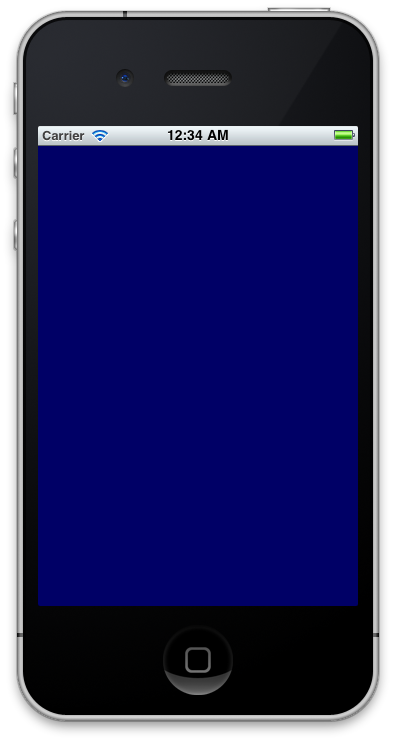
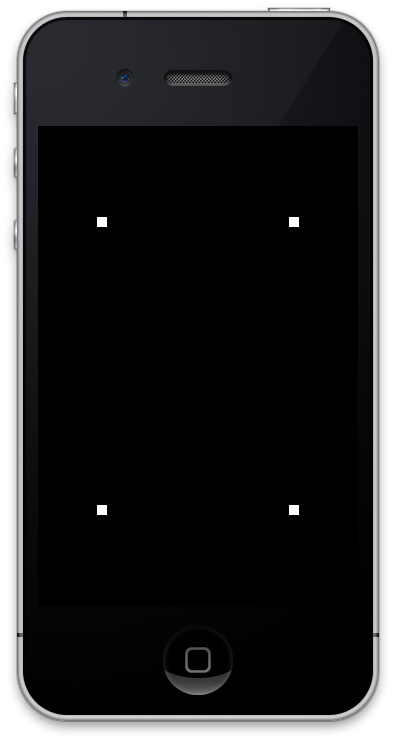
GitBook: [master] 4 pages and 6 assets modified

diff --git a/opengl/opengl-es-tutorial-for-ios/chapter-05.md b/opengl/opengl-es-tutorial-for-ios/chapter-05.md
@@ -1,0 +1,140 @@
+# 5장. 투영에 대해서 1/2
+
+3차원 표현의 핵심은 무엇일까요? 바로 미술시간에 배운 소실점입니다. 그림 속에 소실점이 한 개가 있다면 원근감이 느껴집니다. OpenGL\|ES에서는 3차원 그림을 원근감이 있게 또는 없게 표현할 수 있습니다. 바로 소실점이 있거나 없는 것이지요. 원근감이 있게 표현하는 것은 Perspective\(원근\) 투영이라 하고 원근감이 없게 표현하는 것을 Orthographic\(직교\) 투영이라고 합니다.
+
+원근감은 가까이 있는 물체 보다 멀리 있는 물체가 더 작게 보이는 효과를 뜻합니다. 따라서 사실적인 3차원 표현을 하려면 원근감이 있게 표현을 해야 합니다. 사실 이 원근감의 유무에 따라 2D게임과 3D게임이 나뉘기도 하며 2D게임을 제작할 때에는 대부분 원근감이 없도록 표현을 합니다. 즉, x, y 좌표만으로 물체의 위치를 정하며 원근감이 있는 3D게임에서는 x,y,z 좌표로 물체의 위치를 정합니다.
+
+> \[참고\] OpenGL\|ES 를 이해하기 위해서는 렌더링 파이프라인과 관련 수학을 이해하고 있으면 좋습니다. 튜토리얼에서 다루기에는 내용이 조금 방대한 면이 있으므로 이 튜토리얼에서는 다루지 않겠습니다. 관련 내용은 [게임&인터랙티브 애플리케이션을 위한 수학](http://www.yes24.com/24/Goods/2807319?Acode=101) 이란 좋은 책이 있으므로 참고하시길 바랍니다. :\)
+
+이 번 튜토리얼에서는 원근감이 없는 상태에서 점을 출력하는 예제를 만들어 보겠습니다. 다음은 이번 튜토리얼에서 다룰 내용입니다.
+
+* glMatrixMode\(\)
+* GL\_PROJECTION
+* GL\_MODELVIEW
+* glLoadIdentity\(\)
+* GL\_POINTS
+* glVertexPointer\(\)
+* glEnableClientState\(\)
+* glPointSize\(\)
+* glDrawArrays\(\)
+* glDisableClientState\(\)
+
+아래의 화면은 만들어 볼 프로그램의 실행 결과 화면과 예제 코드입니다. 먼저 실행해 보실 분은 [소스코드](https://skyfe79.gitbooks.io/ios-opengles-tutorial/content/ch4/Tutorial04.zip)를 받아 컴파일해 보시길 바랍니다.
+
+![](../../.gitbook/assets/tut01.png)
+
+#### 1. OGLView 수정하기 <a id="1-oglview-%EC%88%98%EC%A0%95%ED%95%98%EA%B8%B0"></a>
+
+iOS 에서 OpenGL은 CAEAGLLayer에 그려집니다. 지난 튜토리얼까지는 그림을 그리지 않고 배경 화면만 색상을 바꿔 보았습니다. CAEAGLLayer에 정점을 정의해 그림을 그리려면 추가적인 설정이 필요합니다. 바로 CAEAGLLayer의 드로잉 속성입니다. 이 속성으로 정해 주는 내용은 간단합니다.
+
+* kEAGLDrawablePropertyColorFormat 레이어의 색상 형식을 설정합니다. 기본값으로 RGBA를 모두 표현할 수 있는 kEAGLColorFormatRGBA8 를 사용합니다.
+* kEAGLDrawablePropertyRetainedBacking 레이어를 다 그리고 난 후 해당 내용을 메모리에 유지하고 있을 것인지 설정합니다. 메모리 사용과 성능 상의 이유로 꼭 필요할 경우가 아니면 NO로 설정하는 것이 좋습니다.
+
+이제 관련 내용을 추가해 봅시다. OGLView.m 파일의 setupLayer메소드를 아래와 같이 수정합니다.
+
+```objectivec
+-(void)setupLayer
+{
+    eaglLayer = (CAEAGLLayer *)self.layer;
+    [eaglLayer setOpaque:YES];
+    //: 추가합니다. 
+    [eaglLayer setDrawableProperties:[NSDictionary dictionaryWithObjectsAndKeys:
+                                      [NSNumber numberWithBool:FALSE], kEAGLDrawablePropertyRetainedBacking,
+                                      kEAGLColorFormatRGBA8, kEAGLDrawablePropertyColorFormat,
+                                      nil]];
+}
+```
+
+#### 2. DrawPointView 만들기 <a id="2-drawpointview-%EB%A7%8C%EB%93%A4%EA%B8%B0"></a>
+
+OGLView를 상속받는 DrawPointView 클래스를 새로 만들어 줍니다. DrawPointView 클래스에서 직교 투영을 설정하고 점을 그리려 합니다.
+
+우선 setupView 메서드를 재정의하여 투영을 직교 투영으로 설정하고 그림이 그려질 영역인 뷰포트 크기를 정의하겠습니다.
+
+```objectivec
+-(void)setupView
+{
+    //: 행렬 모드는 투영 행렬로 변경한다
+    glMatrixMode(GL_PROJECTION);
+
+    //: 투영행렬을 초기화 한다
+    glLoadIdentity();
+
+    //: 직교투영으로 설정한다
+    glOrthof(0.0f, 1.0f, 0.0f, 1.0f, -1.0f, 1.0f);
+
+    //: 뷰포트의 크기를 전체 화면으로 설정한다.
+    glViewport(0, 0, self.bounds.size.width, self.bounds.size.height);
+}
+```
+
+위의 함수 중에서 중요한 함수는 glOrthof 함수입니다. 직교투영 행렬을 정의하는 함수이기 때문입니다. 투영행렬을 만드는 것은 절두체를 설정하는 것입니다. 절두체는 \(x, y, z\) 축마다 범위를 설정하고 투영을 설정하여 객체 컬링\(범위 벗어나는 그림을 잘라내는 것\) 등에 사용됩니다. 아래 그림은 직교투영과 원근투영 절두체의 모양입니다.
+
+![&#xC9C1;&#xAD50;&#xD22C;&#xC601;&#xC808;&#xB450;&#xCCB4;](../../.gitbook/assets/ortho.gif)
+
+![&#xC6D0;&#xADFC;&#xD22C;&#xC601;&#xC808;&#xB450;&#xCCB4;](../../.gitbook/assets/perspective.png)
+
+각 절두체를 보면 \(left, right, top, bottom, near, far\) 항목이 있습니다. 이 것이 바로 \(x, y, z\)축의 범위값입니다
+
+x축의 범위값은 \(left, right\)이고 y축의 범위값은 \(bottom, top\) 이고 z축의 범위값은 \(near, far\)입니다. 따라서 위 코드에서 glOrthof 함수 인자는 glOrthof\(left, right, bottom, top, near, far\) 입니다.그리고 위처럼 직교투영절두체의 범위를 설정하면 아이폰 화면의 좌-하단이 원점이 되도록 설정한 것입니다.
+
+![](../../.gitbook/assets/tut02.png)
+
+#### 3. 정점 정의하기 <a id="3-%EC%A0%95%EC%A0%90-%EC%A0%95%EC%9D%98%ED%95%98%EA%B8%B0"></a>
+
+위의 결과물 화면을 보면 점이 4개가 화면에 그려지고 있습니다. 점은 벡터와 다르게 위치를 가지고 있습니다. 3차원에서 점의 위치는 \(x, y, z\) 성분으로 구성됩니다. OpenGL\|ES의 원점은 직교투영으로 설정한 절두체의 범위에 따라 달라집니다. 그래서 절두체의 범위를 변경하면 정점의 값이 일정해도 화면의 다른 위치에 출력됩니다. 우선은 결과처럼 점 4개를 출력해 보겠습니다. 원점을 화면 좌-하단이라 생각하고 정점의 위치를 설정합니다.
+
+```objectivec
+GLfloat points[] = {
+    0.2, 0.2, 0.0,  //: 좌-하단
+    0.8, 0.2, 0.0,  //: 우-하단
+    0.2, 0.8, 0.0,  //: 좌-상단
+    0.8, 0.8, 0.0   //: 우-상단
+};
+```
+
+#### 4. 정점 그리기 <a id="4-%EC%A0%95%EC%A0%90-%EA%B7%B8%EB%A6%AC%EA%B8%B0"></a>
+
+OpenGL\|ES에서 정점을 그리려면 정점을 정점 배열에 할당해 줘야 합니다. 정점배열과 OpenGL\|ES의 모델뷰행렬 등에 관해서는 다음 튜토리얼에서 자세히 다루겠습니다. 우선은 아래 코드처럼 작성해 봅시다.
+
+```objectivec
+-(void)renderView
+{
+    //: 배경을 검은색으로 지운다
+    glClearColor(0.0, 0.0, 0.0, 1.0);
+    glClear(GL_COLOR_BUFFER_BIT);
+
+    //: 행렬 모드는 모델뷰 행렬로 변경한다
+    glMatrixMode(GL_MODELVIEW);
+    //: 모델뷰 행렬을 초기화한다
+    glLoadIdentity();
+
+    //: 정점배열을 설정한다
+    glVertexPointer(3, GL_FLOAT, 0, points);
+    glEnableClientState(GL_VERTEX_ARRAY);
+    {
+        //: 점의 크기를 설정한다
+        glPointSize(10);
+        //: 점의 색상을 설정한다
+        glColor4f(1.0, 1.0, 1.0, 1.0);
+        //: 정점 배열의 내용을 점으로 그린다
+        glDrawArrays(GL_POINTS, 0, 4);
+    }
+    glDisableClientState(GL_VERTEX_ARRAY);
+}
+```
+
+#### 5. 실행하기 <a id="5-%EC%8B%A4%ED%96%89%ED%95%98%EA%B8%B0"></a>
+
+이제 코드를 컴파일하고 실행하면 위의 화면처럼 점 4개가 화면에 출력될 것입니다. 이제 glOrthof 함수의 내용을 아래처럼 변경하여 다시 컴파일하여 실행해 봅시다.
+
+```objectivec
+glOrthof(-1.0f, 1.0f, -1.0f, 1.0f, -1.0f, 1.0f);
+```
+
+이렇게 하면 원점이 화면의 정중앙이 되기 때문에 아래와 같이 출력됩니다.
+
+![](../../.gitbook/assets/tut03%20%281%29.png)
+
+정점의 좌표값을 수정해 보며 여러번 테스트 해 보세요. 그럼 여기서 4편 튜토리얼을 마치고 이번 튜토리얼에서 다루지 못한 내용은 다음 5편 튜토리얼에서 다뤄보겠습니다.
+

diff --git a/opengl/opengl-es-tutorial-for-ios/chapter-06.md b/opengl/opengl-es-tutorial-for-ios/chapter-06.md
@@ -1,0 +1,100 @@
+# 6장. 투영에 대해서 2/2
+
+앞 장의 코드 중에서 정점 배열을 설정하는 부분을 살펴 보겠습니다.
+
+```objectivec
+-(void)renderView  
+{  
+    …  
+
+    //: 정점배열을 설정한다  
+    glVertexPointer(3, GL_FLOAT, 0, points);  
+    glEnableClientState(GL_VERTEX_ARRAY);  
+    {  
+        //: 점의 크기를 설정한다  
+        glPointSize(10);  
+        //: 점의 색상을 설정한다  
+        glColor4f(1.0, 1.0, 1.0, 1.0);  
+        //: 정점 배열의 내용을 점으로 그린다  
+        glDrawArrays(GL_POINTS, 0, 4);  
+    }  
+    glDisableClientState(GL_VERTEX_ARRAY);  
+}
+```
+
+glVertextPointer 는 OpenGL\|ES의 내부 정점 배열에 사용할 여러 정점을 입력하는 함수입니다. 예전 OpenGL 은 폴리곤을 정의할 때 아래와 같은 glBegin\(\) ~ glEnd\(\) 쌍을 이용해 정의할 수 있었습니다. 아래는 삼각형을 정의하는 코드입니다.
+
+```objectivec
+glBegin(GL_TRIANGLES);  
+    glVertex3f(-1.0f, -0.5f, -4.0f);     
+    glVertex3f( 1.0f, -0.5f, -4.0f);     
+    glVertex3f( 0.0f,  0.5f, -4.0f);     
+glEnd();
+```
+
+위처럼 폴리곤 또는 오브젝트를 정의하면 상태머신으로 작동하는 OpenGL 의 내부 구현은 매우 복잡해 집니다. 모바일 장치에서 빠르고 효율 있게 동작해야 하는 OpenGL\|ES 특성상 구현을 복잡하게 하는 glBegin\(\) ~ glEnd\(\) 형식의 오브젝트 정의 방법을 과감하게 없애고 대신 정점 배열 및 정점 버퍼를 사용하는 방법으로 오브젝트를 정의하게 했습니다.
+
+glEnableClientState, glDisableClientState, glVertextPointer, glDrawArrays 함수에 대해 알아 보겠습니다.
+
+> **glEnableClientState, glDisableClientState**
+>
+> OpenGL 함수 이름을 보면 Client 가 포함된 것이 있습니다. 이는 OpenGL이 서버와 클라이언트 모델로 설계되고 구현되었기 때문입니다. 간략하게 설명하자면 서버에서 이미지를 생성하고 클라이언트에서는 생성된 이미지를 출력하는 방식입니다. 그와 관련해 함수명이 붙여진 것입니다. 더 자세한 내용은 OpenGL 도서 및 가이드를 참고하세요. 위의 두 함수는 클라이언트 측 기능을 사용가능 또는 사용하지 않음으로 설정하는 함수입니다. OpenGL\|ES 는 기본으로 클라이언트 측 기능을 모두 꺼 놓기 때문에 필요한 기능은 glEnableClientState 로 켜 놓고 사용해야 합니다. 어떤 기능이 필요할 때 Enable로 켜고 기능을 사용한 다음에 Disable로 끄고 하는 패턴으로 사용합니다. 이 두 함수로 설정할 수 있는 클라이언트 측 기능은 아래와 같습니다.
+>
+> **GL\_COLOR\_ARRAY**
+>
+> 이 기능이 활성화되면 glDrawArrays 및 glDrawElements로 폴리곤을 렌더링할 때 glColorPointer로 설정한 색상 배열을 참고하여 렌더링합니다.
+>
+> **GL\_NORMAL\_ARRAY**
+>
+> 이 기능이 활성화되면 glDrawArray 및 glDrawElements로 폴리곤을 렌더링할 때 glNormalPointer로 설정한 법선 배열을 참고하여 렌더링합니다.
+>
+> **GL\_POINT\_SIZE\_ARRAY\_OES**
+>
+> 이 기능이 활성화되면 점과 점 스프라이트를 렌더링할 때 점 크기 배열을 참고하여 렌더링합니다.
+>
+> **GL\_TEXTURE\_COORD\_ARRAY**
+>
+> 이 기능이 활성화되면 glDrawArray 및 glDrawElements로 폴리곤을 렌더링할 때 glTexCoordPointer로 설정한 텍스춰 좌표 배열을 참고하여 렌더링합니다.
+>
+> **GL\_VERTEX\_ARRAY**
+>
+> 이 기능이 활성화되면 glDrawArray 및 glDrawElements로 폰리곤을 렌더링할 때 glVertextPointer로 설정한 정점 배열을 참고하여 렌더링합니다.
+>
+> **glVertextPointer\(GLint size, GLenum type, GLsizei stride, const GLvoid\* pointer\);**
+>
+> glVertexPointer 는 정점 좌표 데이터를 담고 있는 배열의 메모리 위치를 설정할 때 사용합니다. 정점 당 좌표의 개수, 좌표의 데이터 종류\(type\) 그리고 한 정점에서 다음 정점까지의 간격\(메모리 간격\) 을 설정하여 정점 데이터를 담고 있는 배열의 특성을 설정합니다.
+>
+> * size : 정점 당 좌표의 개수를 지정합니다. 2, 3, 4 중 하나가 되어야 합니다. \(x, y, z\) 로 정점이 구성되면 3이 됩니다.
+> * type : 정점을 구성하는 좌표의 데이터 타입을 설정합니다. GL\_BYTE, GL\_SHORT, GL\_FIXED 그리고 GL\_FLOAT으로 설정할 수 있습니다.
+> * stride : 한 정점에서 다음 정점까지의 간격입니다. 만약 이 값이 0이면 하나의 특성만으로 구성된 정점 배열로 인식합니다.\( 점 그리기 예제는 위치만 있으므로 0 으로 설정했음\)
+> * pointer : 정점 데이터를 담고 있는 배열에서 첫 정점의 첫 좌표가 있는 메모리 주소입니다.
+>
+> **glDrawArrays\(GLenum mode, GLint first, GLsizei count\)**
+>
+> glDrawArrays는 여러 원시 기하 도형을 렌더링할 때 사용합니다.
+>
+> * mode : 렌더링할 원시 기하 도형을 설정합니다. GL\_POINTS, GL\_LINE\_STRIP, GL\_LINE\_LOOP, GL\_LINES, GL\_TRIANGLE\_STRIP, GL\_TRIANGLE\_FAN, GL\_TRIANGLES 를 설정할 수 있습니다.
+> * fist : 배열의 시작 인덱스를 설정합니다.
+> * count : 렌더링할 개수를 설정합니다.
+
+위의 내용에서 stride와 pointer 내용을 예제를 통해 좀 더 살펴보겠습니다. stride 는 다음 정점까지의 간격입니다. 아래와 같이 위치 말고도 법선, 색상, 텍스춰 좌표 등의 속서을 담은 정점을 정의한 후 각 속성들을 각 배열에 설정해 봅시다.
+
+```objectivec
+struct vertex  
+{  
+    float poisiton[3];    // 위치  
+    float normal[3];    // 법선  
+    float color[3];        // 색상  
+    float texture[2];    // 텍슽춰좌표  
+};  
+
+vertex vlist[150];  
+
+glVertexPointer(3, GL_FLOAT, sizeof(vertex), &vlist[0] + 0);  
+glNormalPointer(3, GL_FLOAT, sizeof(vertex), &vlist[0] + sizeof(float)*3);  
+glColorPointer(3, GL_FLOAT, sizeof(vertex), &vlist[0] + sizeof(float)*6);  
+glTexturePointer(2, GL_FLOAT, sizeof(vertex), &vlist[0] + sizeof(float)*9);
+```
+
+참고로 OpenGL\|ES 1.x 함수 설명은 [크로노스 공식 문서](http://www.khronos.org/opengles/sdk/1.1/docs/man/)에서 찾아 볼 수 있습니다.
+

diff --git a/opengl/opengl-es-tutorial-for-ios/chapter-04.md b/opengl/opengl-es-tutorial-for-ios/chapter-04.md
@@ -2,7 +2,7 @@
 
 안녕하세요. OpenGL\|ES 튜토리얼 3편입니다. 이번 시간에는 OpenGL의 컬러버퍼를 지우는 방법을 알아보겠습니다. 2편에서는 배경 화면이 하얗게 나왔는데요. 이번에는 원하는 색상으로 지울 수 있게 설정해 보겠습니다.
 
-![](../../.gitbook/assets/tut01.png)
+![](../../.gitbook/assets/tut01%20%281%29.png)
 
 위의 그림은 이번 장에서 만들 예제의 결과화면입니다. 결과 화면이 이번 장에서도 심심하지만 그래도 즐겁게 해 보아요^^ 먼저 코드를 받아서 실행해 보실 분은 아래의 코드를 받으세요 :\)
 
@@ -185,7 +185,7 @@ OGLView.h 파일을 열어 아래와 같이 클래스 메서드 선언을 입력
 
 이제 코드를 컴파일하고 실행하면 아래 화면처럼 파란 화면이 출력됩니다.
 
-![](../../.gitbook/assets/tut01.png)
+![](../../.gitbook/assets/tut01%20%281%29.png)
 
 #### 6. 터치에 따라 배경 색상 바꾸기 <a id="6-%ED%84%B0%EC%B9%98%EC%97%90-%EB%94%B0%EB%9D%BC-%EB%B0%B0%EA%B2%BD-%EC%83%89%EC%83%81-%EB%B0%94%EA%BE%B8%EA%B8%B0"></a>
 

diff --git a/SUMMARY.md b/SUMMARY.md
@@ -19,5 +19,7 @@
   * [2장. 튜토리얼 소개](opengl/opengl-es-tutorial-for-ios/chapter-02.md)
   * [3장. OpenGL\|ES 개발 환경 만들기](opengl/opengl-es-tutorial-for-ios/chapter-03.md)
   * [4장. 뷰 배경색상 변경하기](opengl/opengl-es-tutorial-for-ios/chapter-04.md)
+  * [5장. 투영에 대해서 1/2](opengl/opengl-es-tutorial-for-ios/chapter-05.md)
+  * [6장. 투영에 대해서 2/2](opengl/opengl-es-tutorial-for-ios/chapter-06.md)
 * [Untitled](opengl/untitled.md)
 
